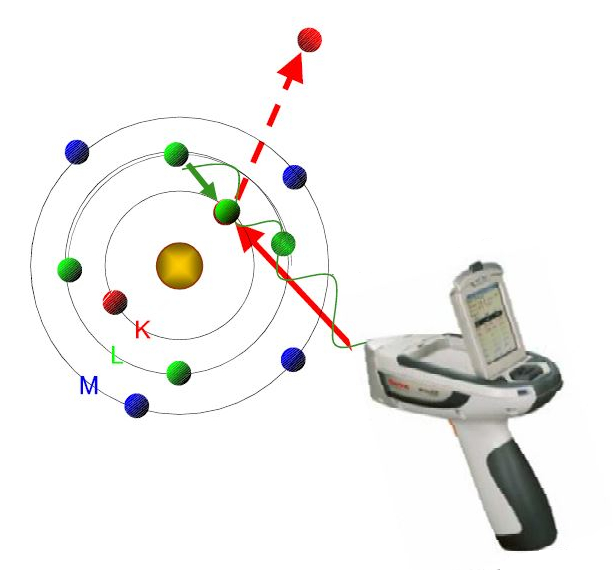
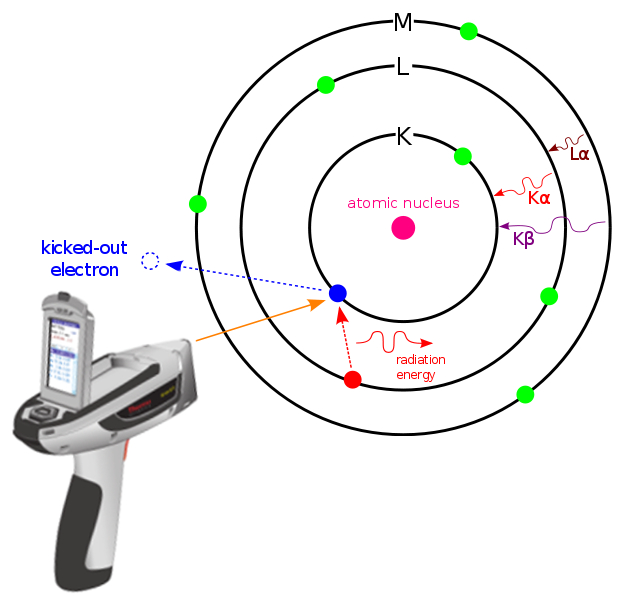
added ceramegypt page top content list and excahnged a picture

diff --git a/de/ceramegypt.html b/de/ceramegypt.html
@@ -126,7 +126,7 @@
 
 			<div style="clear: both"></div>
 			<con10t-image src="/con10t/img/ceramegypt/pfra_basics.jpg" align="right" width="300" alt="photographing an object">
-				pXRF Physical Basics
+				Physical principles of portable ED-XRF measurements
 			</con10t-image>
 			<h3>Chemical and petrographic analysis</h3>
 			<p>Of crucial importance to the project is the incorporation of natural scientific methods. This will enable us to better separate production sites and their eventual sub-fabrics (e. g. fine wares, cooking wares, transport containers). Such separations used to be problematic, especially on a macroscopic level, for the alluvial clays of the Nile valley and the delta.</p>
